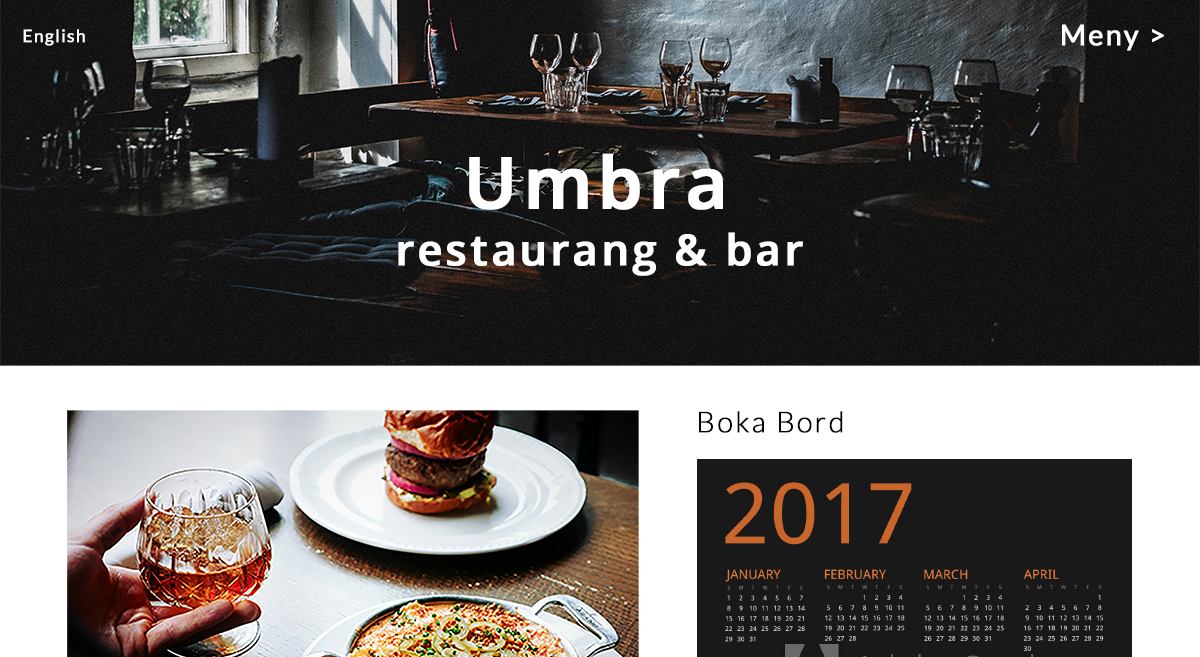
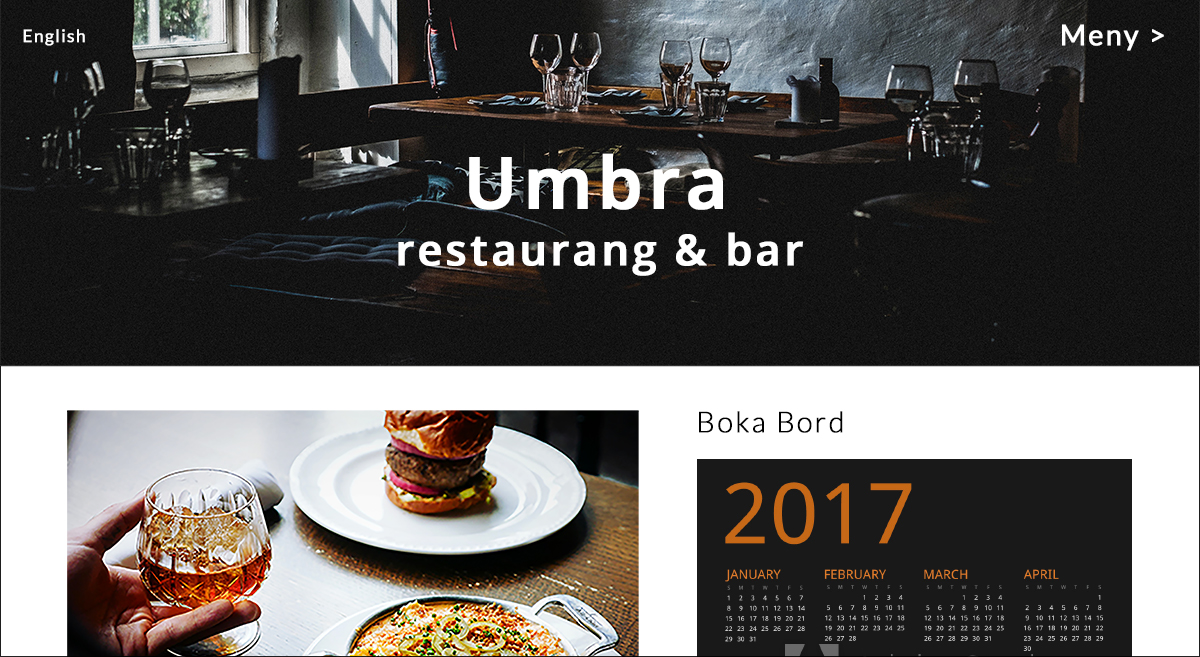
erbjudersidan fixad i laptopvy, bilder projektsidan mindre, bottom nav i mobilvy dold

diff --git a/css/main.css b/css/main.css
@@ -100,12 +100,14 @@ main {
 
 /* Bottommenyn */
 .bottom-nav {
+  display: none;
+  /*ska ej visas i mobilversionen*/
   background: #BEE3DB;
   padding: 2rem 0;
   margin: 2rem 0;
   /* Länkstyling*/
   font-family: "Bebas Neue", Georgia;
-  font-size: 1.2rem;
+  font-size: 1.4rem;
   letter-spacing: 0.05rem; }
   .bottom-nav a {
     text-decoration: none;
@@ -385,10 +387,11 @@ textarea {
 /******************************************************************/
 /* FOOTER */
 .contact-info {
-  background: #BEE3DB; }
+  background: #BEE3DB;
+  padding: 1rem 0;
+  margin: 2rem 0 0 0; }
   .contact-info p {
     margin: 0;
-    padding: 0;
     font-family: "Bebas Neue", Georgia;
     font-size: 1.2rem;
     letter-spacing: 0.05rem; }
@@ -425,12 +428,6 @@ textarea {
   .main-header {
     display: none; }
 
-  .bottom-nav {
-    font-size: 1.4rem; }
-
-  .contact-info {
-    background-color: white; }
-
   /******************************************************************/
   /* Boxes */
   .box-wrapper {
@@ -452,7 +449,8 @@ textarea {
     min-width: 50%;
     min-height: 350px; }
     .erbjuder-ruta div {
-      padding-right: 0; }
+      padding-right: 0;
+      min-height: 75px; }
 
   .erbjuder-reverse {
     flex-direction: row-reverse; }
@@ -533,9 +531,14 @@ textarea {
     .top-nav .label-toggle {
       display: none; }
 
-  .bottom-nav ul {
-    flex-direction: row;
-    justify-content: space-around; } }
+  .bottom-nav {
+    display: flex; }
+    .bottom-nav ul {
+      flex-direction: row;
+      justify-content: space-around; }
+
+  .contact-info {
+    background-color: white; } }
 /* Leave me <3 */
 /* Stora skärmar */
 @media screen and (min-width: 992px) {
@@ -600,11 +603,18 @@ textarea {
   /* Erbjuder */
   .erbjuder {
     max-width: 1300px;
-    flex-flow: row; }
+    flex-flow: row;
+    /* skriver över box-wrapper flex-flow: row wrap;  ovanför, kan därför inte lägga in allt på samlad skärmstorlek*/ }
 
   .erbjuder-ruta {
+    flex-direction: column;
+    text-align: center;
     min-width: 50%;
-    min-height: 260px; }
+    min-height: 350px;
+    padding: 0 3rem; }
+    .erbjuder-ruta div {
+      padding-right: 0;
+      min-height: 75px; }
 
   .erbjuder-reverse {
     flex-direction: row-reverse; }

diff --git a/scss/_responsive.scss b/scss/_responsive.scss
@@ -20,14 +20,6 @@
 		display: none;
 	}
 
-	.bottom-nav{
-		font-size: 1.4rem;
-	}
-
-	.contact-info{
-		background-color: white;
-	}
-
 
 /******************************************************************/
 /* Boxes */
@@ -55,6 +47,7 @@
 		min-height: 350px;
 		div{
 			padding-right: 0;
+			min-height: 75px;
 		}	
 	}
 
@@ -157,12 +150,16 @@
 		}
 	}
 
-
 	.bottom-nav{
+		display: flex;
 		ul {
 			flex-direction: row;
 			justify-content: space-around;
 		}
+	}
+
+	.contact-info{
+		background-color: white;
 	}
 
 } /* Leave me <3 */
@@ -254,12 +251,19 @@
 
 	.erbjuder{
 		max-width: 1300px;
-		flex-flow: row;
+		flex-flow: row; /* skriver över box-wrapper flex-flow: row wrap;  ovanför, kan därför inte lägga in allt på samlad skärmstorlek*/
 	}
 
 	.erbjuder-ruta{
+		flex-direction: column;
+		text-align: center;
 		min-width: 50%;
-		min-height: 260px;
+		min-height: 350px;
+		padding: 0 3rem;
+		div{
+			padding-right: 0;
+			min-height: 75px;
+		}	
 	}
 
 	.erbjuder-reverse{

diff --git a/scss/main.scss b/scss/main.scss
@@ -132,13 +132,14 @@ main {
 
 /* Bottommenyn */
 .bottom-nav {
+	display: none; /*ska ej visas i mobilversionen*/ 
 	background: $secondary-color;
 	padding: 2rem 0;
 	margin: 2rem 0;
 
 	/* Länkstyling*/
 	font-family: $heading-font;
-	font-size: 1.2rem;
+	font-size: 1.4rem;
 	letter-spacing: 0.05rem;
 	a {
 		text-decoration: none;
@@ -180,7 +181,6 @@ main {
 	margin: auto; /* center */
 	box-sizing: border-box;
 	z-index: 0;
-
 }
 
 
@@ -450,9 +450,10 @@ textarea {
 /* FOOTER */
 .contact-info  {
 	background: $secondary-color;
+	padding: 1rem 0;
+	margin: 2rem 0 0 0;
 	p {
 	margin: 0;
-	padding: 0;
 	font-family: $heading-font;
 	font-size: 1.2rem;
 	letter-spacing: 0.05rem;

diff --git a/views/erbjuder.html b/views/erbjuder.html
@@ -49,8 +49,8 @@
 			</article>
 			<article class="box erbjuder-ruta border hover">
 				<div>
-					<span class="fa fa-laptop fa-3x" aria-hidden="true"></span>
-					<span class="fa fa-mobile fa-3x" aria-hidden="true"></span>
+					<span class="fa fa-laptop fa-4x" aria-hidden="true"></span>
+					<span class="fa fa-mobile fa-4x" aria-hidden="true"></span>
 				</div>
 				<section class="erbjuder-text">
 					<h3>Responsiv design</h3>
